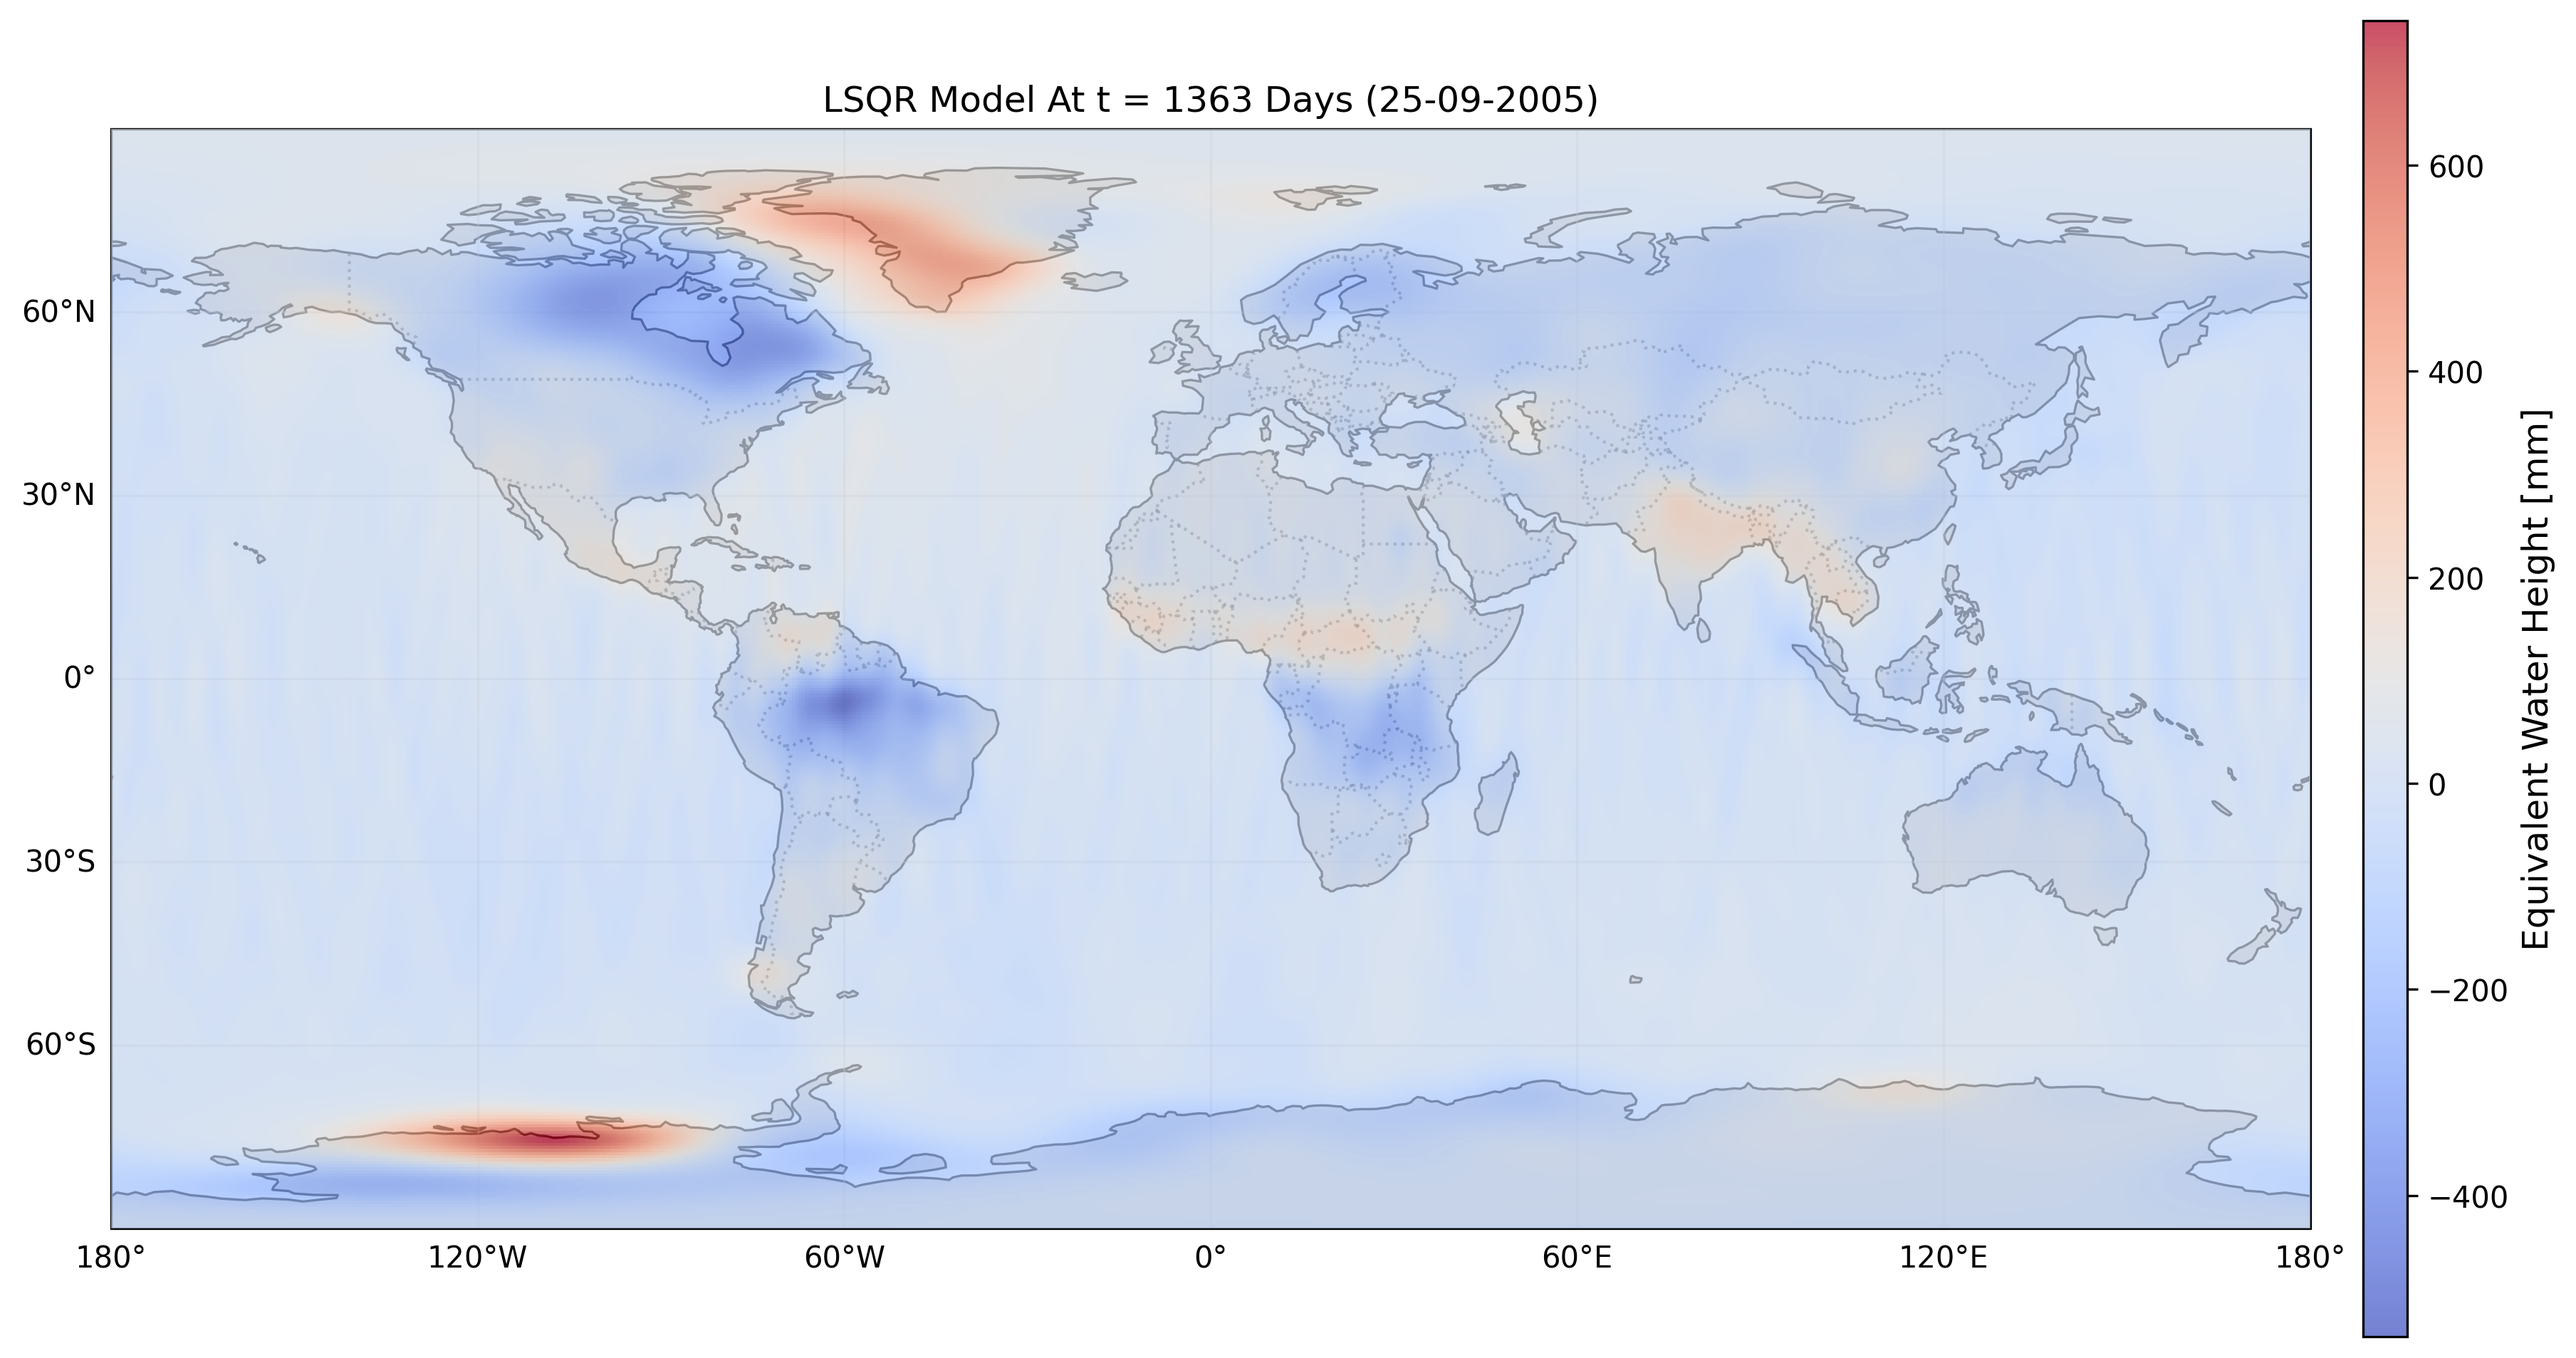
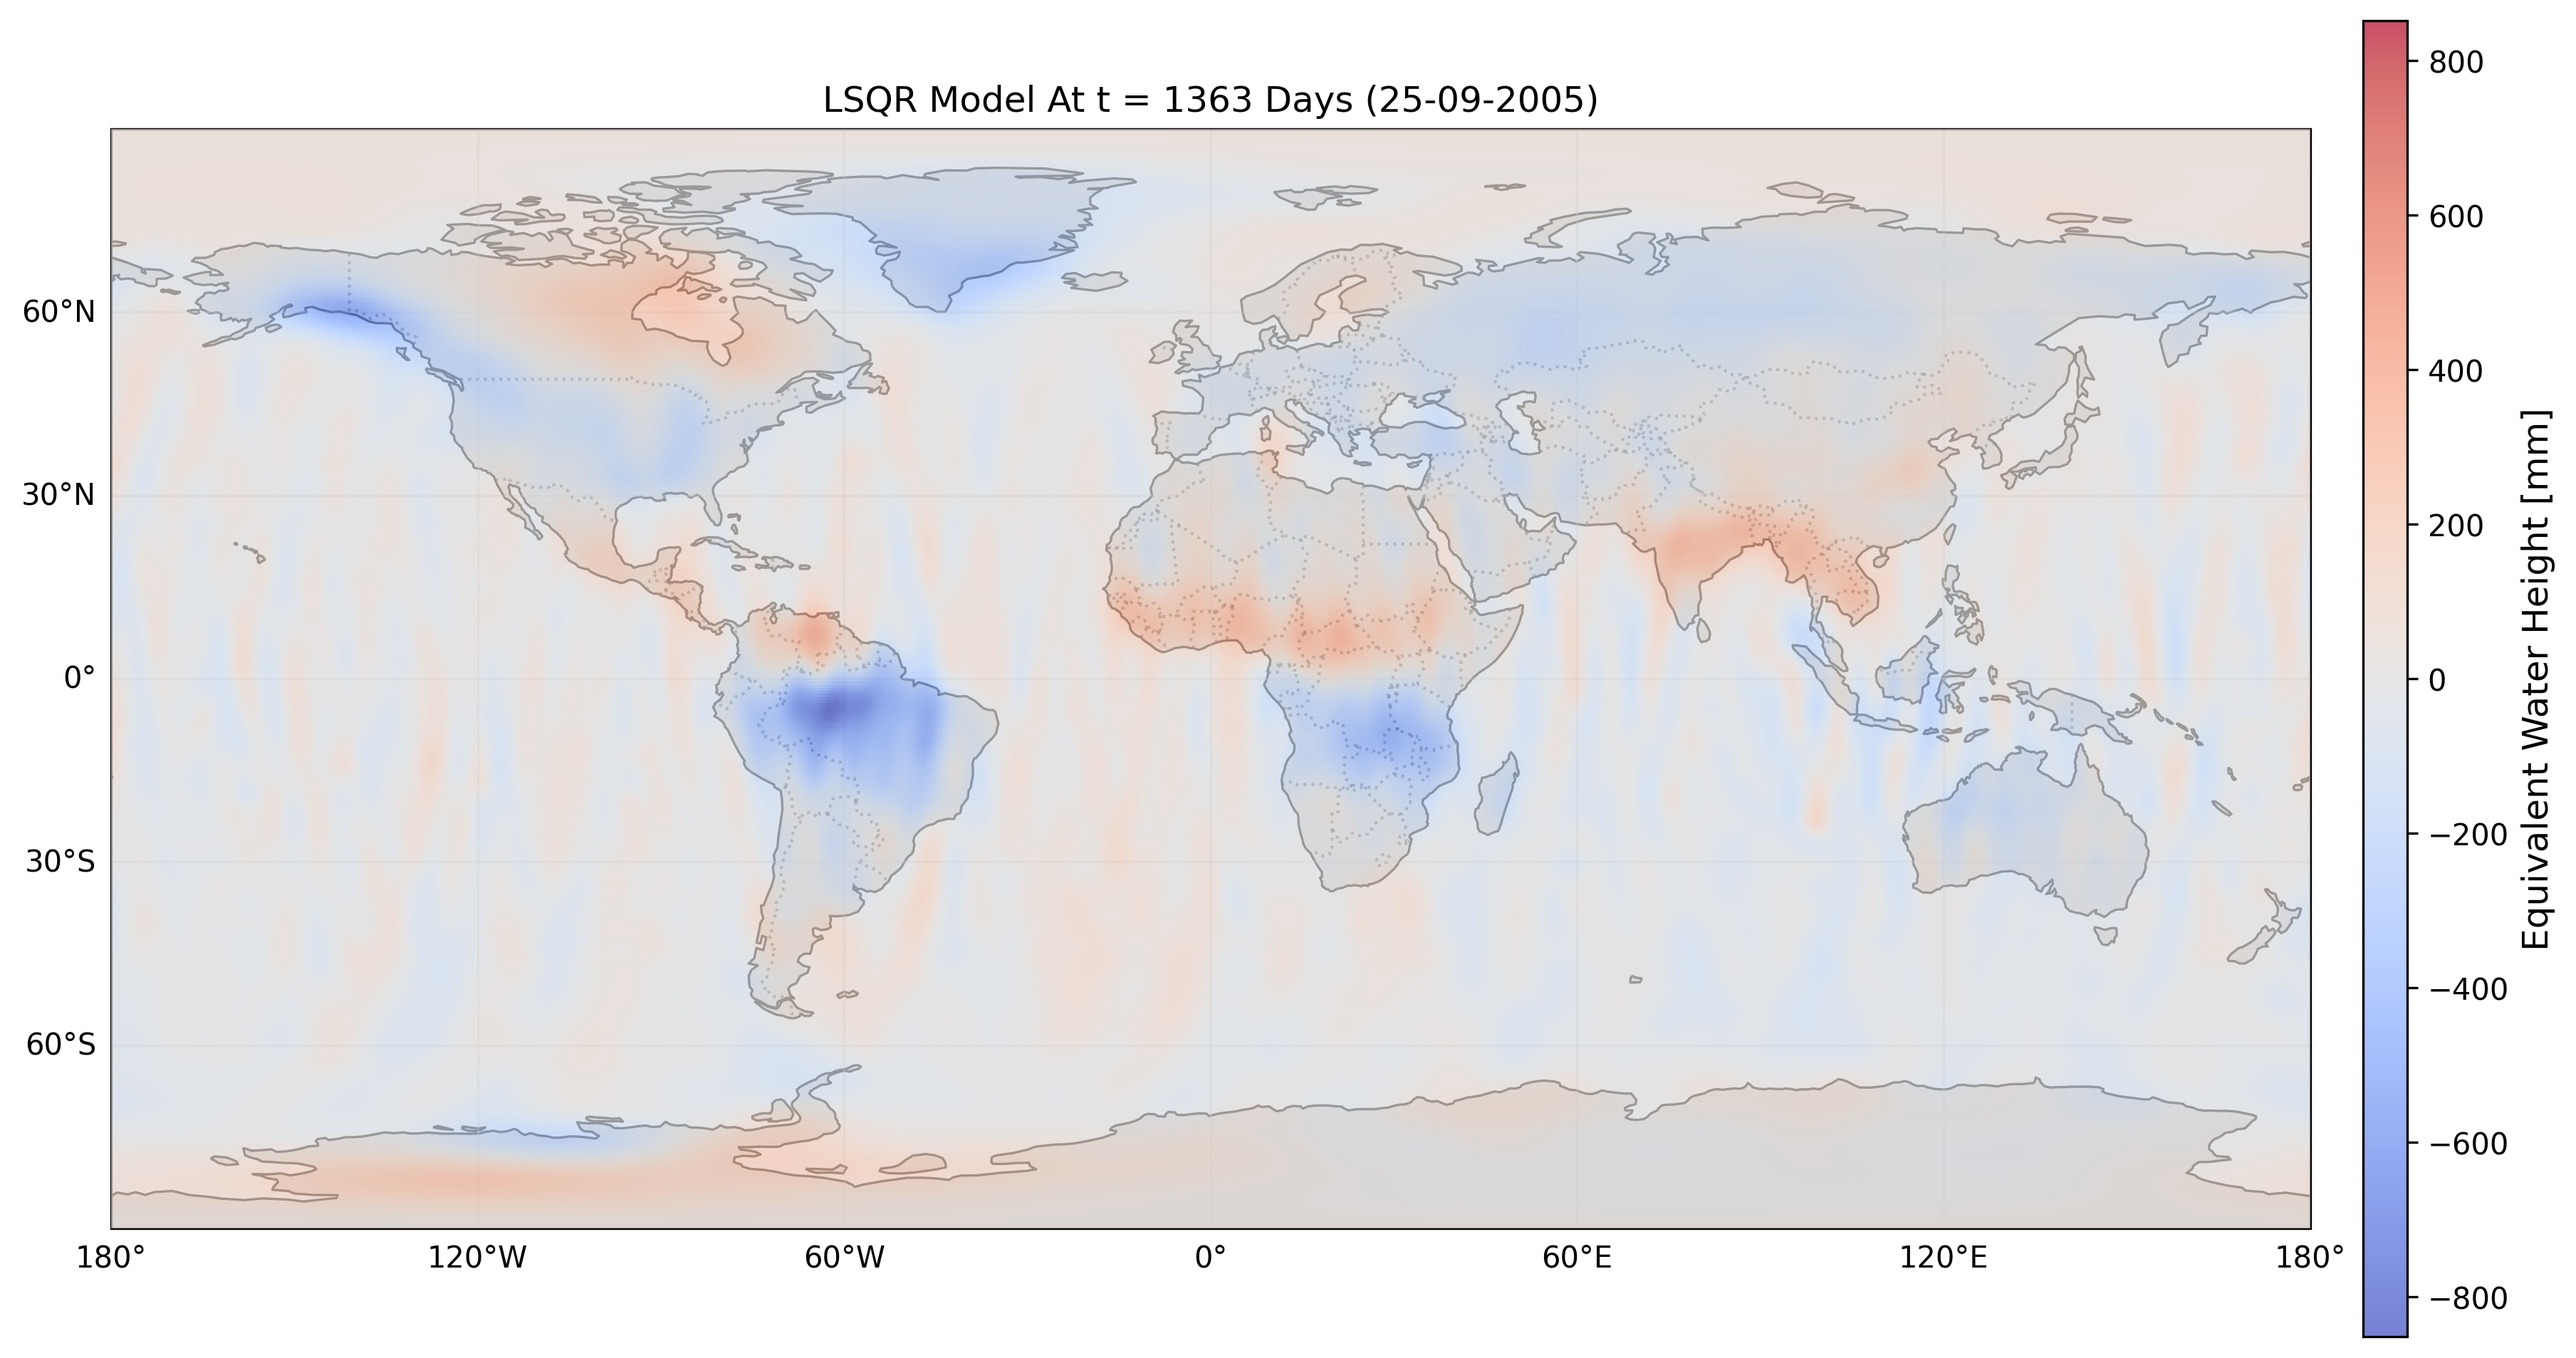
Single Date EWH

diff --git a/LSQR_Analysis/LSQR_Functions.py b/LSQR_Analysis/LSQR_Functions.py
@@ -115,7 +115,7 @@ def compute_delta_harmonics(data_year_arr, date_year_arr, year_lst, max_order=96
 
         # Filtering
         C_semi, S_semi = correlated_error_filter(C_orig, S_orig, max_order)
-        C_fil, S_fil = gaussian_filter(C_semi, S_semi)
+        C_fil, S_fil = gaussian_filter(C_semi, S_semi, smoothing_radius=350)
 
         # Append Data To Lists
         data_C.append(C_fil)
@@ -127,15 +127,24 @@ def compute_delta_harmonics(data_year_arr, date_year_arr, year_lst, max_order=96
     data_C_array = np.array(data_C)           # Shape (Months, 97, 97)
     data_S_array = np.array(data_S)           # Shape (Months, 97, 97)
     
+    '''
     # Define Delta Values By Subtracting Mean
     C_mean = np.mean(data_C_array, axis=0)      # Shape (97, 97) -> Mean Across Months For Each Coefficient
     S_mean = np.mean(data_S_array, axis=0)      # Shape (97, 97) -> Mean Across Months For Each Coefficient
 
     delta_C = data_C_array - C_mean
     delta_S = data_S_array - S_mean
+    '''
+
+    # Define Delta Values By Subtracting First Month (2002-01)
+    C_first = data_C_array[0]      # Shape (97, 97) -> First Month As Baseline
+    S_first = data_S_array[0]      # Shape (97, 97) -> First Month As Baseline
+
+    delta_C = data_C_array - C_first
+    delta_S = data_S_array - S_first
 
     # Create Global Mask
-    flat_mean = np.concatenate([C_mean.ravel(), S_mean.ravel()])
+    flat_mean = np.concatenate([C_first.ravel(), S_first.ravel()])
     mask = (flat_mean != 0)
     org_tot_size = len(flat_mean)
 
@@ -170,7 +179,7 @@ def T_row(ti):
     '''
 
     return np.array([ 
-        #1,                                              # 0 // Constant
+        1,                                              # 0 // Constant
         ti,                                             # 1 // Linear trend
         ti**2,                                          # 2 // Quadratic trend
         np.cos(2 * np.pi * ti / 365.2500),              # 3 // Annual (Cosine)
@@ -476,13 +485,18 @@ def render_single(earth_grid_EWH, date, sample_time, lat_range=(-np.pi/2, np.pi/
     ax.add_feature(cfeature.COASTLINE, linewidth=0.8)
     ax.add_feature(cfeature.BORDERS, linestyle=':', alpha=0.5)
 
+    # Determine Color Scale Limits Based On Data Range
+    limit = np.nanmax(np.abs(earth_grid_EWH))
+
     # Overlay The Data (Extent: [min_lon, max_lon, min_lat, max_lat])
     im = ax.imshow(
         earth_grid_EWH, 
         extent=[lon_deg[0], lon_deg[1], lat_deg[0], lat_deg[1]],
         transform=ccrs.PlateCarree(),
         origin='upper', 
-        cmap='coolwarm', 
+        cmap='coolwarm', # RdBu_r, coolwarm
+        vmin=-limit, 
+        vmax=limit,
         alpha=0.7,
         zorder=3 # Ensures data stays above the land/ocean colors
     )
